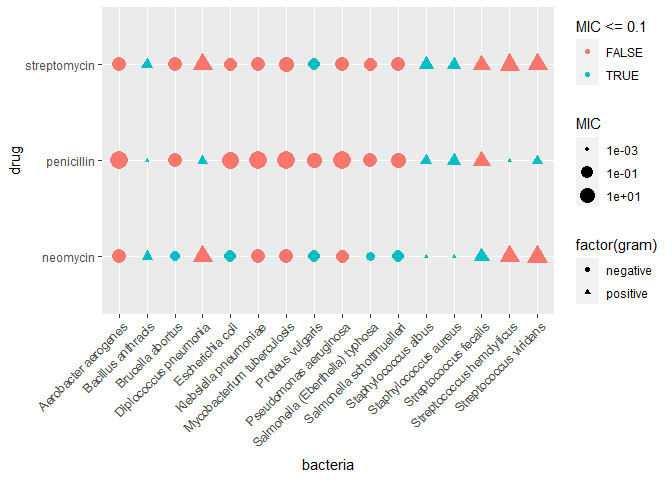
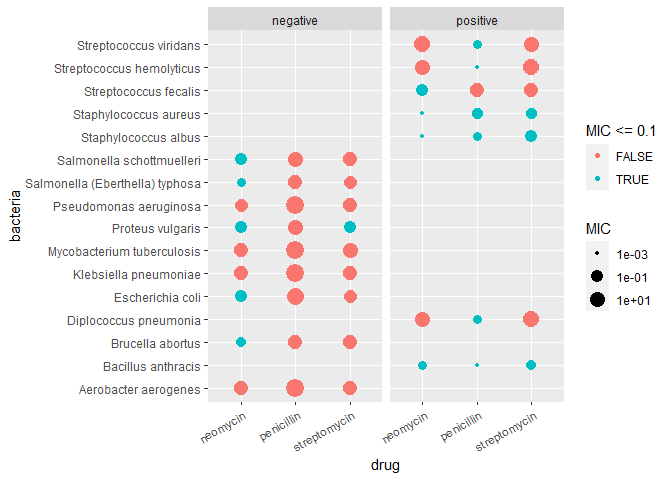
adjust visualisation 2 to facet gram value instead of making it graph shape attribute to increase readability

diff --git a/challenges/c05-antibiotics-assignment.md b/challenges/c05-antibiotics-assignment.md
@@ -188,9 +188,10 @@ df_antibiotics %>%
     c('penicillin', 'streptomycin', 'neomycin')
   ) %>%
   ggplot() +
-  geom_count(mapping = aes(x = bacteria, y = drug, shape = factor(gram), size = MIC, group = MIC, color = MIC <= 0.1)) +
+  geom_count(mapping = aes(x = drug, y = bacteria, size = MIC, group = MIC, color = MIC <= 0.1)) +
   scale_size(trans = "log10") +
-  theme(axis.text.x = element_text(angle = 45, vjust = 1, hjust = 1))
+  facet_wrap(~ gram) + 
+  theme(axis.text.x = element_text(angle = 30, vjust = 1, hjust = 1))
 ```
 
 ![](c05-antibiotics-assignment_files/figure-gfm/q1.2-1.png)<!-- -->
